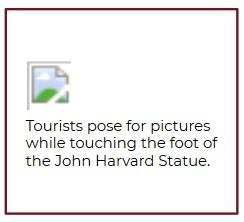
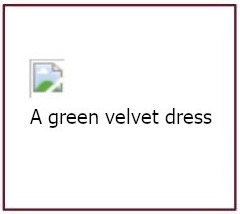
improve images, last minute edits

Changed region(s): [[0.0, 0.0, 0.9917, 1.0], [0.0875, 0.5047, 0.9042, 0.757], [0.0875, 0.2804, 0.2917, 0.5047]]

diff --git a/README.md b/README.md
@@ -1,28 +1,30 @@
 # Writing-Good-Alt-Text
 A collection of guidelines found across the web for properly describing an image in words
 
-## Ever a Work in Progress
+## This doc is not definitive
 This document does not claim to be comprehensive, and it is open to improvement. Under the license listed above, you are welcome to fork and modify it, print it or use it. Pull requests are welcome.
 
 ## Rationale
 Simply put, not every visitor to a web page or your social media post are using their eyes to see it! This includes more than people who are blind; there are many other forms of disabilities that reduce the clarity of a person's eyesight. Yet web pages should be usable to all people, regardless of their abilities.
 
-**Alternative (Alt) Text** is meant to convey the “why” of the image as it relates to the content of a document or webpage. This is what is read aloud to non-sighted users by their screen reader software. It is both a social justice issue (of recognizing the diversity of all people), as well as a matter of legal compliance with the Americans With Disabilities Act (ADA).
+### Alternative (Alt) Text is meant to convey the “why” of the image as it relates to the content of a document or webpage.
+This is what is read aloud to non-sighted users by their screen reader software. It is both a social justice issue (of recognizing the diversity of all people), as well as a matter of legal compliance with the Americans With Disabilities Act (ADA).
 - A web page that does not have Alt Text on every image fails the WCAG Accessibility Guidelines' [first standard (1.1.1)](https://www.boia.org/wcag2/cp/1.1.1).
 - This includes a webpage that is showing a Timeline of social media posts.
 - That means everyone who attaches an image on a social media post should be adding Alt Text to describe that image — *every time.*
 
-**Alt Text also benefits sighted people!** Alt Text is indexed by search engines, so that (say, Google) can suggest the right image you’re searching for. Alt Text displays on the page if the image somehow fails to load, as in this example of a missing image:
+### Alt Text also benefits sighted people!
+Alt Text is indexed by search engines, so that (say, Google) can suggest the right image you’re searching for. Alt Text displays on the page if the image somehow fails to load, as in this example of a missing image:
 ![screenshot demonstrates how a missing image renders on a webpage. An small icon of a broken image with some text below it which reads: Tourists pose for pictures while touching the foot of the John Harvard Statute.](examples/image_not_found.jpg)
 
 
-## Guidelines for good Alt Text
+# Guidelines for good Alt Text
 
-### 1. Keep things short and descriptive – something about the length of a tweet.
+## 1. Keep things short and descriptive – something about the length of a tweet.
 The problem with being over-wordy is that it takes up a lot of time for the non-sighted person to listen through it. Already, perusing a webpage by sound takes MUCH longer than by sight. So non-sighted users can get frustrated when content creators make it especially slow for them to get their work done.
 
 
-### 2. In general, don't start with the words “image of…” or “photo of…”
+## 2. In general, don't start with the words “image of…” or “photo of…”
 Just say what it is:  `A green velvet dress.`
 - `A blue and black dress.`
 *Ahem.* 
@@ -35,7 +37,7 @@ Avoid the abbreviation B&amp;W, instead write it out for the screen reader softw
 See, sometimes you may decide to break a guideline, if doing so will better assist the non-sighted user to glean the equivalent, relevant information from the image.
 
 
-### 3. An image that is purely decorative does *not* need Alt Text.
+## 3. An image that is purely decorative does *not* need Alt Text.
 For example, don’t write Alt Text for the cool pattern used in the background of a webpage. The WCAG standard for a decorative image is **null** Alt Text. In code, this is:  `alt=""`
 
 ![mockup of a generic website in a browser. The words are blurred out as sample text.](examples/geom-pattern-as-bg.jpg)
@@ -49,7 +51,7 @@ But, if the same image were a thumbnail on a site for buying wallpaper, then it 
 
 
 
-### 4. Use the general rule of: Object • Action • Context
+## 4. Use the general rule of: Object • Action • Context
 Alt Text should try to communicate the same experience that you wanted a sighted person to get. So it depends on the context for why the image is there. Here are some examples:
 
 | Example | Alt text |
@@ -63,7 +65,7 @@ Side notes, because lawyers:
 - *The image above of Ms. Magazine is licensed under Creative Commons CC-BY-SA 4.0 as confirmed by [Wikimedia Commons](https://commons.wikimedia.org/wiki/File:Ms._magazine_Cover_-_Summer_2006.jpg).*
 
 
-### 5. Use these general rules for a headshot:
+## 5. Use these general rules for a headshot:
 1. **Say that it's a headshot.** This already implies that the person is dressed professionally and is (probably) smiling.
 2. Include the person’s **full name** in the Alt Text.
 3. If the person is **doing something**, describe it:  e.g. holding something, pointing into the crowd, or sitting in front of a particular background that communicates visual information.
@@ -77,7 +79,7 @@ Side notes, because lawyers:
 - *Note: the photo of Ms. Tyson is by John Mathew Smith & celebrity-photos.com from Laurel, MD, [CC BY-SA 2.0](https://creativecommons.org/licenses/by-sa/2.0), via Wikimedia Commons.*
 
 
-### 6. The context matters!
+## 6. The context matters!
 So there’s no single ‘right’ way to compose the Alt Text. Consider this same image on two different websites:
 
 | Example | On this kind of website | Alt text |
@@ -86,7 +88,7 @@ So there’s no single ‘right’ way to compose the Alt Text. Consider this sa
 | ![the same image is repeated here](examples/pexels-10287236.jpg) | Marketing opportunities | `crowning the upper section of stadium bleachers are two billboards emblazoned with corporate names and logos` |
 
 
-### 7. For images that have words in them
+## 7. For images that have words in them
 Generally speaking, you need to transcribe *all* the words, because a non-sighted person deserves to obtain the same information from the image as a sighted person. But apply this guideline within reason. (For example, you would not transcribe the smaller, minor headlines on the newspaper that Harry Truman is holding. On the marketing website in #6, the specific brand names are not really important.)
 
 When a photograph has handwriting on it, or if the image has words baked into its pixels, you should convey that in the Alt Text.
@@ -95,14 +97,14 @@ When a photograph has handwriting on it, or if the image has words baked into it
 | ----- | 
 | ![A parchment document from the US Supreme Court in 1895 refers to Homer Plessy as a Plaintiff against Judge Ferguson of the Criminal District Court of Orleans Parish. A full transcript of this image is given in the following paragraph.](examples/plessy-v-ferguson-m.jpg) |
 | `A weathered parchment document reads the following: Supreme Court of the United States, No. 210, October Term, 1895. Homer Adolph Plessy, Plaintiff in Error, vs. J.H. Ferguson, Judge of Section 'A' Criminal District Court for the Parish of Orleans. In Error to the Supreme Court of the State of Louisiana. This cause came on to be heard on the transcript of the record from the Supreme Court of the State of Louisiana, and was argued by counsel. On consideration whereof, It is now here ordered and adjudged by this Court that the judgement of the said Supreme Court, in this cause, be, and the same is hereby, affirmed with costs. Per M. Justice Brown, May 18, 1896. Dissenting: M. Justice Harlan.` |
-| …OR, direct the reader where they can get the full transcript |
-| `A parchment document from the US Supreme Court in 1895 refers to Homer Plessy as a Plaintiff against Judge Ferguson of the Criminal District Court of Orleans Parish. A full transcript of this image is provided on this page.` &nbsp;/&nbsp; `in the subtweets of this thread.` |
+| …OR, notify the reader where they can get the full transcript: |
+| `A parchment document from the US Supreme Court in 1895 refers to Homer Plessy as a Plaintiff against Judge Ferguson of the Criminal District Court of Orleans Parish. A full transcript of this image is provided on this page` &nbsp;/&nbsp; `in the subtweets of this thread.` |
 
-- Note: this image is courtesy of the [US National Archives](https://www.archives.gov/historical-docs/todays-doc/index.html?dod-date=518). Records of the Supreme Court of the United States; Record Group 267; Plessy v. Ferguson, 163, #15248; *Plessy vs. Ferguson,* Judgement, Decided May 18, 1896.
+- *Note: this image is courtesy of the [US National Archives](https://www.archives.gov/historical-docs/todays-doc/index.html?dod-date=518).* Records of the Supreme Court of the United States; Record Group 267; Plessy v. Ferguson, 163, #15248; *Plessy vs. Ferguson,* Judgement, Decided May 18, 1896.
 
 | Example #2 | 
 | ----- | 
-| ![test](examples/carte-de-viste.jpg) |
+| ![Headshot of an unknown woman appears on the yellowed paper of a carte de viste.  No year is given but the bottom of the card reads: Shackell & Clauss, 828 & 830 Third Ave., Near 51st Street, N.Y.](examples/carte-de-viste.jpg) |
 | `Headshot of an unknown woman appears on the yellowed paper of a carte de viste. No year is given but the bottom of the card reads: Shackell & Clauss, 828 & 830 Third Ave., Near 51st Street, N.Y.` |
 
 
